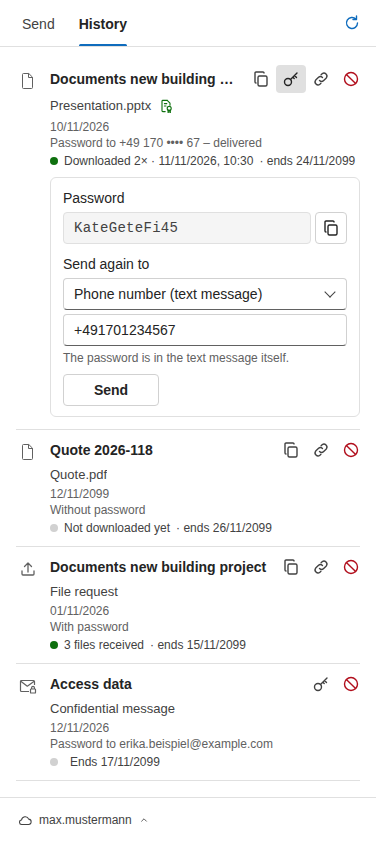
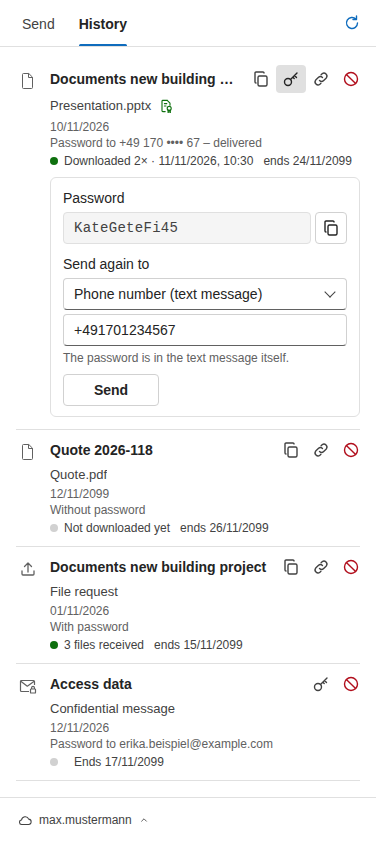
README pictures; no gap before 'Endet' for a message

diff --git a/addin/src/taskpane/taskpane.ts b/addin/src/taskpane/taskpane.ts
@@ -2666,7 +2666,10 @@ function shareRow(share: ShareItem): HTMLElement {
   // A message: no download state (Vaultwarden does not report it), no link to copy or insert again (no key kept).
   if (share.kind === "message") {
     // No download state – only when it ends.
-    row.querySelector<HTMLElement>(".state-text")!.textContent = "";
+    const stateText = row.querySelector<HTMLElement>(".state-text")!;
+    stateText.textContent = "";
+    stateText.hidden = true; // no empty gap before "Endet …"
+    row.querySelector<HTMLElement>(".share-ends")!.style.marginLeft = "0";
     const ends = row.querySelector<HTMLElement>(".share-ends")!;
     ends.textContent = share.expiration ? t("shares.endsOnly", { date: formatDate(`${share.expiration}T12:00:00`) }) : "";
     row.querySelector<HTMLElement>(".share-state")!.hidden = !share.expiration;
